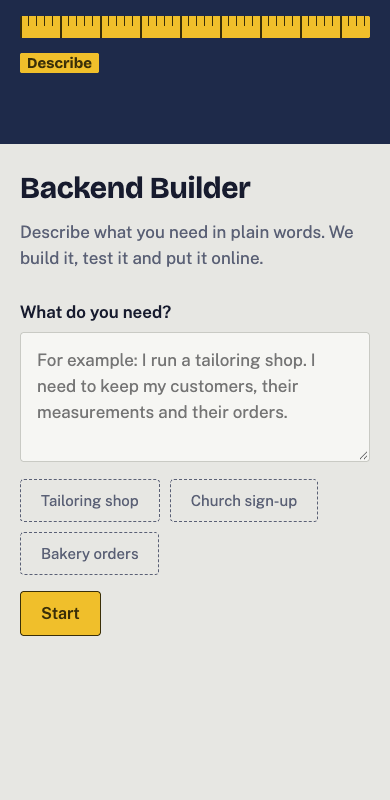
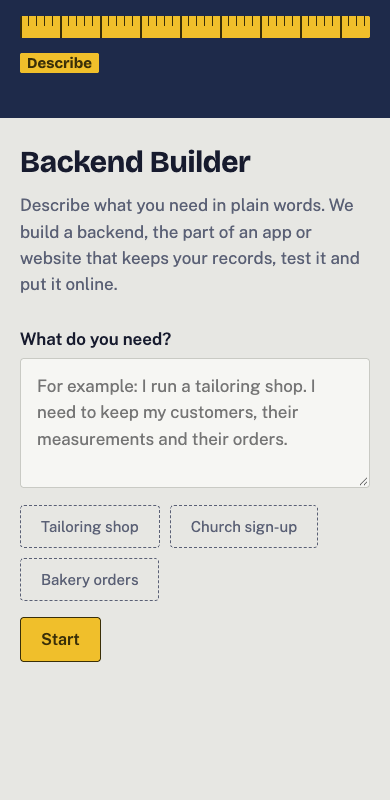
S4.3, S4.4: fold developer details on the live screen, name the try-it link, explain 'backend'; compare three page versions

diff --git a/web/index.html b/web/index.html
@@ -56,6 +56,7 @@
   a { color:var(--ink); }
   .error { color:var(--bad); font-weight:600; margin-top:12px; }
   .good { color:var(--good); }
+  summary { cursor:pointer; font-weight:600; margin:14px 0 8px; }
   @media (max-width: 760px) {
     .app { grid-template-columns:1fr; }
     aside { position:static; height:auto; flex-direction:column; padding:16px 20px; }
@@ -73,7 +74,7 @@
   <aside aria-label="Progress"><div class="rule" id="rule" role="progressbar" aria-valuemin="0" aria-valuemax="100"><i></i></div><ol class="stops" id="stops"></ol></aside>
   <main>
     <h1>Backend Builder</h1>
-    <p class="soft">Describe what you need in plain words. We build it, test it and put it online.</p>
+    <p class="soft">Describe what you need in plain words. We build a backend, the part of an app or website that keeps your records, test it and put it online.</p>
     <div id="view"></div>
     <p id="problem" class="error" role="alert"></p>
   </main>
@@ -159,9 +160,12 @@ function screen(s) {
   if (s === "building") return card(el("h2", { textContent: "Building… usually about a minute" }), el("ul", { id: "steps", className: "steps" }),
     ...box("Changed your mind about something?", "You can tell us while we build", "Send", t => api(`/${id}/messages`, { message: t }), true));
   if (s === "live") return card(el("h2", { className: "good", textContent: "Your backend is live" }),
-    el("p", {}, "Try it here: ", el("a", { href: last.docs_url, target: "_blank", rel: "noopener", textContent: last.docs_url })),
-    el("p", {}, "Its address, for a website or app: ", el("code", { textContent: last.url })),
-    el("h3", { textContent: "For the person who builds your website or app" }), el("ul", {}, ...last.endpoints.map(e => el("li", {}, el("code", { textContent: e })))),
+    el("p", {}, el("a", { href: last.docs_url, target: "_blank", rel: "noopener", textContent: "Open the try-it page" }),
+      el("span", { className: "soft", textContent: ": add records and look at them. It is made for developers, so some words there are technical." })),
+    // S4.4: the address and the action list are for a developer, so they stay folded until opened
+    el("details", {}, el("summary", { textContent: "For the person who builds your website or app" }),
+      el("p", {}, "Address: ", el("code", { textContent: last.url })),
+      el("ul", {}, ...last.endpoints.map(e => el("li", {}, el("code", { textContent: e }))))),
     el("pre", { textContent: (last.summary || "").replace(/\*\*|`/g, "") }),  // the agent writes markdown; plain text is enough here
     ...box("Want to change something?", "For example: also let me delete a customer", "Change it", t => api(`/${id}/messages`, { message: t }), true),
     el("button", { className: "quiet", textContent: "Take it offline",  // decision 0059: the data stays, and a message brings it back

diff --git a/eval/experiments/page_compare.py b/eval/experiments/page_compare.py
@@ -1,4 +1,5 @@
-"""S4.4, free: the page before decision 0060 (Joseph's, at 2735bfb) against the page now (Michael's design on the same logic).
+"""S4.4, free: the page before decision 0060 (Joseph's, at 2735bfb), the page on Nov 11 (Michael's design on the same logic,
+at 2dbf7a1), and the page now (live screen: developer details folded away, a named try-it link, "backend" explained).
 The same saved bakery session plays through both (web/replay.py), in real Chrome at phone width. For each screen: how many
 words the client reads, and which of them are technical words from a fixed list. A word count, not a user test (that is S4.5).
 
@@ -19,8 +20,13 @@ TECH = {"api", "endpoint", "endpoints", "json", "swagger", "docs", "schema", "de
         "server", "http", "https", "sqlite", "url", "id"}
 VERBS = {"GET", "POST", "PUT", "PATCH", "DELETE"}  # only in capitals: "get" and "delete" are plain words
 
-old = pathlib.Path(tempfile.mkdtemp()) / "index.html"
-old.write_text(subprocess.run(["git", "show", "2735bfb:web/index.html"], capture_output=True, text=True, check=True).stdout)
+def page_at(commit):
+    f = pathlib.Path(tempfile.mkdtemp()) / "index.html"
+    f.write_text(subprocess.run(["git", "show", f"{commit}:web/index.html"], capture_output=True, text=True, check=True).stdout)
+    return f
+
+
+VERSIONS = [("before", page_at("2735bfb")), ("nov11", page_at("2dbf7a1")), ("now", web.PAGE)]
 for name, fake in replay.fakes(SAVED, pace=0.2).items():
     setattr(session, name, fake)
 session.BUILDS = pathlib.Path(tempfile.mkdtemp())
@@ -39,14 +45,16 @@ OUT.mkdir(exist_ok=True)
 rows = {}
 with sync_playwright() as p:
     browser = p.chromium.launch(channel="chrome", headless=True)
-    for version, page in [("before", old), ("now", web.PAGE)]:
+    for version, page in VERSIONS:
         web.PAGE = page
         g = browser.new_context(viewport={"width": 390, "height": 800}).new_page()
 
         def screen(name):
             g.wait_for_timeout(800)
             g.screenshot(path=OUT / f"{version}_{name}.png", full_page=True)
-            rows.setdefault(name, {})[version] = words(g.inner_text("body"))
+            body = g.inner_text("body")
+            summary = "".join(g.locator("pre").all_inner_texts())  # the agent's own summary, not the page's words
+            rows.setdefault(name, {})[version] = words(body) + (words(body.replace(summary, ""))[1],)
 
         g.goto("http://127.0.0.1:8091/"); g.wait_for_selector("textarea"); screen("1_describe")
         g.fill("textarea", REQUEST); g.click("button:has-text('Start')")
@@ -59,9 +67,11 @@ with sync_playwright() as p:
     browser.close()
 server.should_exit = True
 
-lines = ["screen        words before -> now   technical words before | now"]
+names = [v for v, _ in VERSIONS]
+lines = ["screen        words " + " -> ".join(names) + "   technical words " + " | ".join(names) + "   ...not counting the agent's summary"]
 for name, v in rows.items():
-    lines.append(f"{name:13} {v['before'][0]:5} -> {v['now'][0]:<5}   {' '.join(v['before'][1]) or '-'} | {' '.join(v['now'][1]) or '-'}")
+    lines.append(f"{name:13} " + " -> ".join(f"{v[n][0]:<4}" for n in names) + "   " + " | ".join(" ".join(v[n][1]) or "-" for n in names)
+                 + "   " + " | ".join(" ".join(v[n][2]) or "-" for n in names))
 print("\n".join(lines))
 (OUT / "page_compare.txt").write_text("\n".join(lines) + "\n")
 (OUT / "page_compare.json").write_text(json.dumps(rows, indent=1) + "\n")

diff --git a/eval/results/README.md b/eval/results/README.md
@@ -69,7 +69,8 @@ Each `harness/*.json` has one row per backend per repeat: `task`, `passed`, `tot
 | Whole journey with a message during the build | `sessions/animal_shelter.jsonl` | live; colour added and required (corrected, W4 row 41) |
 | Whole journey through the public page in Chrome | `sessions/bakery_through_the_page.jsonl` · `browser_check/*.png` | live, no page errors. Screenshots are from before three small page fixes |
 | Same journey again, with the restart check and plain summary on the server (S5.1) | `browser_check_s51/` (`output.txt`, `try_it.txt`, screenshots) | live, no page errors; the new backend stores data and refuses a bad price |
-| Does the new page use fewer technical words than the one before it? (S4.4, W3 row 4) | `page_compare/` (`page_compare.txt`, `page_compare.json`, 10 screenshots), made by `eval/experiments/page_compare.py` with the saved bakery session played back (`web/replay.py`) | plan screen: GET and POST before, none now; the live screen still shows the action list on both. A word count, not a user test |
+| Does the page use fewer technical words, before → Nov 11 → now? (S4.3, S4.4, W3 rows 4 and 7) | `page_compare/` (`page_compare.txt`, `page_compare.json`, 15 screenshots), made by `eval/experiments/page_compare.py` with the saved bakery session played back (`web/replay.py`). Rerun Nov 12 with three versions | plan: GET and POST before, none on Nov 11 or now. Live screen, the page's own words: GET POST docs https before and on Nov 11, **none now** (developer details folded away). The agent's summary in this old session still has GET, POST and id (summaries are plain since decision 0054). A word count, not a user test |
+| Does the Nov 12 page still work on every screen? (S4.3) | `page_check_2026-11-12/` (`check_page.txt`, 18 screenshots), made by `eval/results/walkthrough/part6/new_page/check_page.py` (pretend Claude, real server and Chrome) | 18 of 18 screens at phone, desktop and dark phone with no sideways scrolling; 0 page errors; a refresh keeps the build; web tests 8 passed |
 | Taking a live build down (decision 0059), one real build on the server | `sessions/take_down_live.json` · `../experiments/take_down_live.py` | refused while building; link 200 before, 404 after; second try refused; other backends 200; $0.09 |
 | Full system per task: score, keeps data, time, cost (S5.2) | `full_system.json` | 96.0% over 3 runs; 13 of 15 tasks always pass; football and shop lose tests; about $1.91 a run |
 
